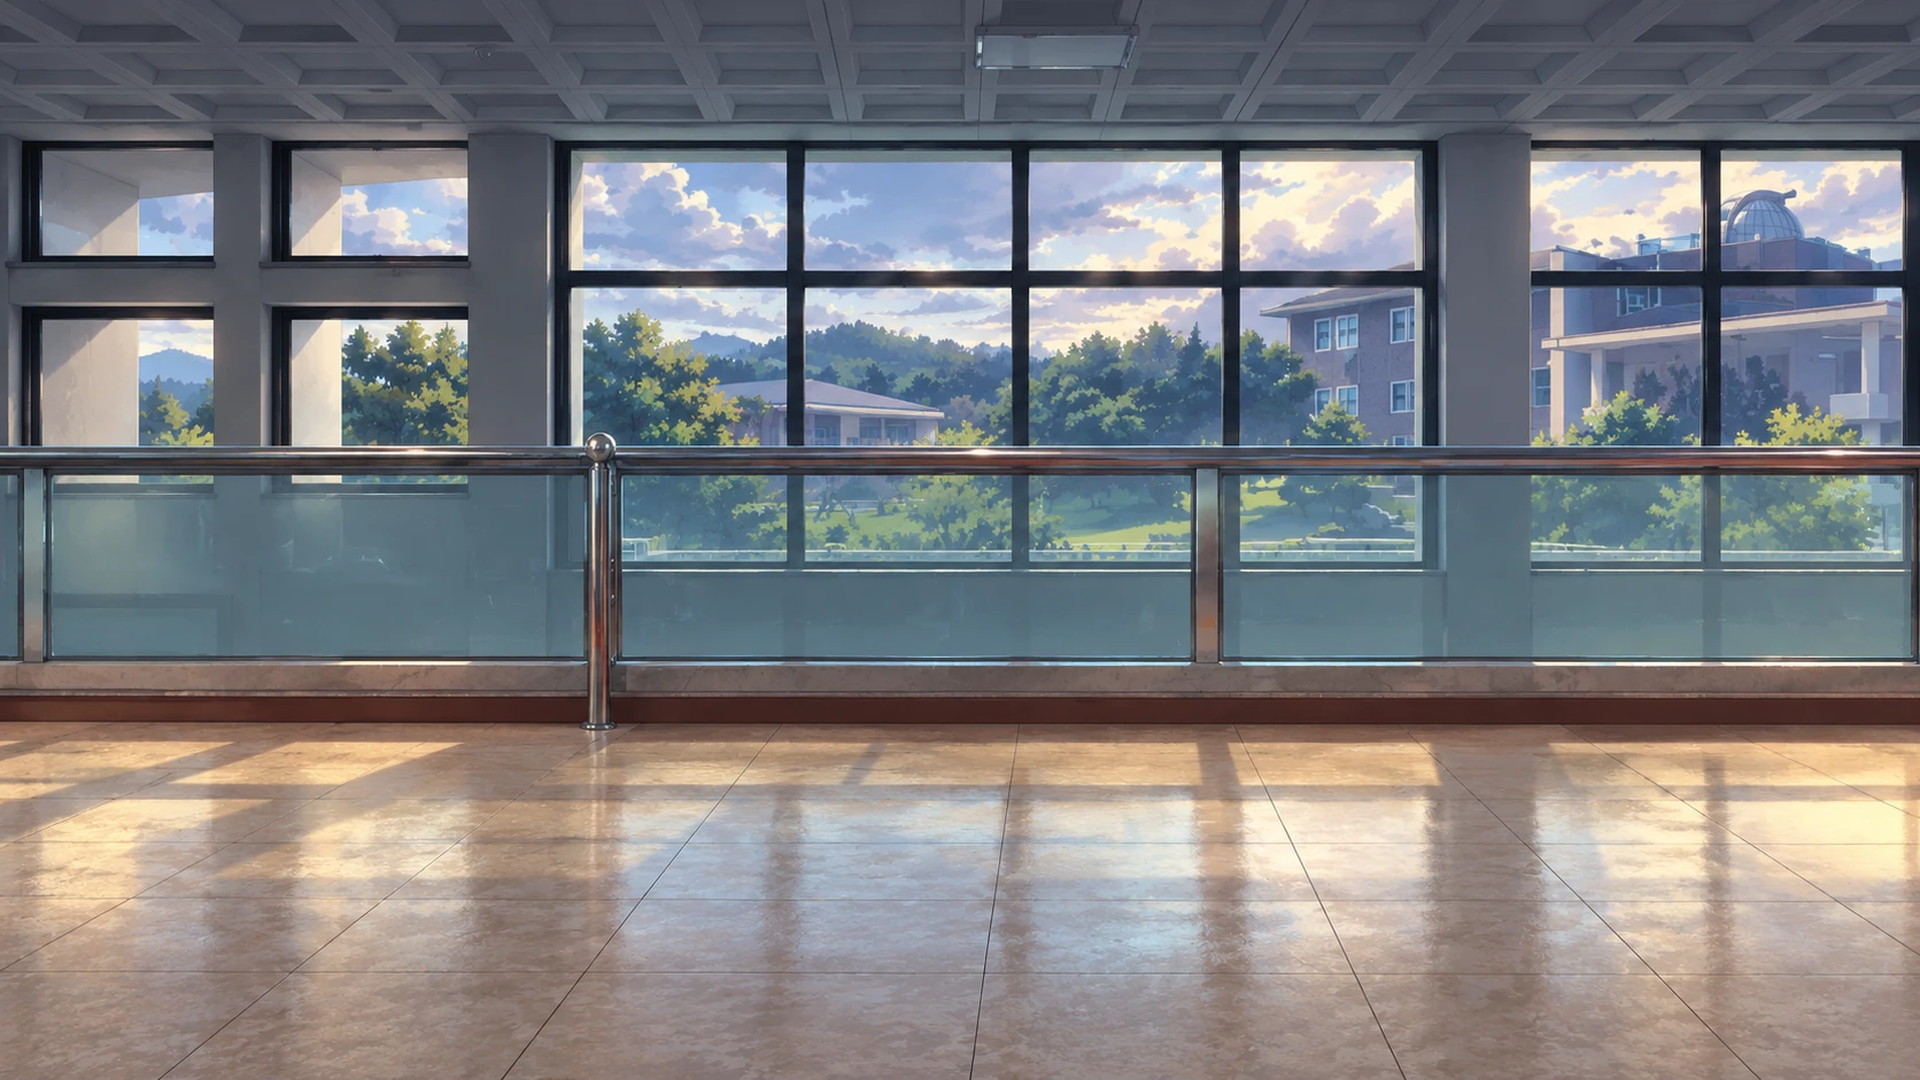
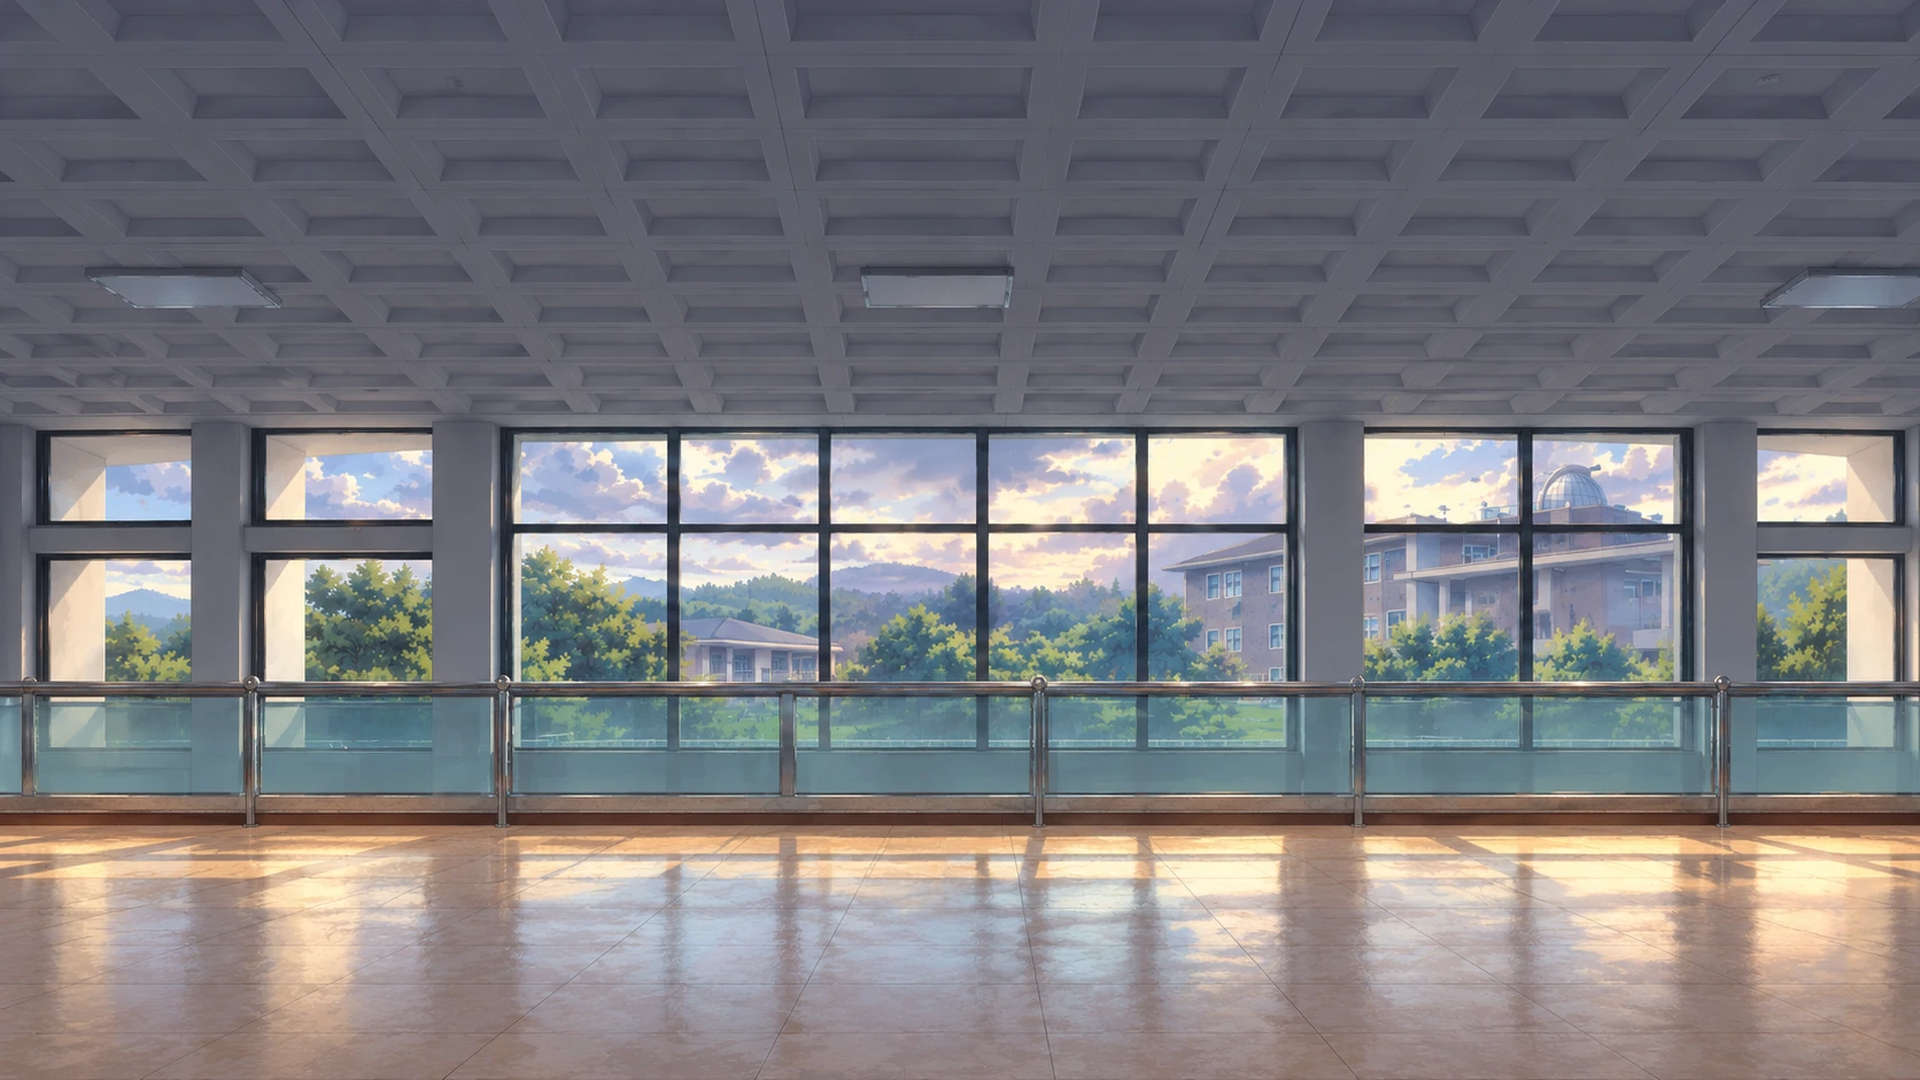
로비·복도·벚나무 길 배경 넓게 다시 뽑은 그림, 바닥 누르기 끔
Claude-Session: https://claude.ai/code/session_01DkxNRghxDBAgHYk82cYTSd

diff --git a/tools/make_prompts.py b/tools/make_prompts.py
@@ -416,7 +416,7 @@ for f, ko, desc in EFFECTS:
 out += ['## 5. 스테이지 배경 (학교 사진 첨부, 16:9 가로)', '',
         '> 사진을 첨부해서 한 장씩. 바닥(캐릭터가 서는 곳)이 그림 아래쪽 약 85% 높이에 오게. 받은 그림은 `assets/stages/<id>.png`', '']
 # 다시 뽑을 배경: 문·나무·난간이 캐릭터에 비해 너무 크게 나온 것 (지금 그림을 첨부해서 카메라만 뒤로)
-STAGE_REDO = ['cherry_road', 'lobby', 'hallway']
+STAGE_REDO = []  # 다 뽑음 (cherry_road, lobby, hallway 넓게)
 WIDE = ("IMPORTANT SCALE: the camera is pulled far back, so everything looks SMALL and far away: "
         "a door or a person-height object is only about one quarter of the image height, trees and windows are small, "
         "and much more of the place is visible on the left and right. "

diff --git a/docs/PROMPTS.md b/docs/PROMPTS.md
@@ -1257,29 +1257,14 @@ Redraw the attached photo as a 2D anime fighting game stage background: the fron
 Redraw the attached photo as a 2D anime fighting game stage background: the outdoor school basketball court in front of the pink and beige three-story school buildings, pine trees on the right, big white clouds in a blue sky. Keep the same place, layout and buildings as the photo. Wide 16:9 landscape, 1920x1080. Straight-on side view at standing eye level, like a Guilty Gear / Street Fighter stage: a flat open floor runs across the whole bottom of the image, and the line where the characters stand is at about 85% of the image height, with nothing blocking the floor in the middle. No people, no characters, no text or letters except where described above, no UI. Painterly anime background art, cel-shaded with clean outlines, slightly muted colors and soft depth so fighters in front stand out, dramatic lighting, a little darker and calmer than the characters.
 ```
 
-🔁 **복도 다시 뽑기** (지금 `stages/hallway.png` 그림 첨부) → `stages/hallway`
-```
-Redraw the attached background as a wider, more zoomed-out version of the same place: the second-floor school hallway with a glass and steel railing in front of a wall of big black-framed windows looking out on the campus buildings and green hills. Same art style, colors and lighting as the attached image. IMPORTANT SCALE: the camera is pulled far back, so everything looks SMALL and far away: a door or a person-height object is only about one quarter of the image height, trees and windows are small, and much more of the place is visible on the left and right. The floor is only a NARROW strip: the line where the wall (or the road side) meets the floor is at about 78% of the image height. Wide 16:9 landscape, 1920x1080, straight-on side view at standing eye level like a Guilty Gear / Street Fighter stage. No people, no characters, no text or letters, no UI.
-```
-
 ✅ **복도** (2층 난간 창문 사진 (369)) → `stages/hallway`
 ```
 Redraw the attached photo as a 2D anime fighting game stage background: the second-floor school hallway with a glass and steel railing in front of a wall of big black-framed windows looking out on the campus buildings and green hills. Keep the same place, layout and buildings as the photo. Wide 16:9 landscape, 1920x1080. Straight-on side view at standing eye level, like a Guilty Gear / Street Fighter stage: a flat open floor runs across the whole bottom of the image, and the line where the characters stand is at about 85% of the image height, with nothing blocking the floor in the middle. No people, no characters, no text or letters except where described above, no UI. Painterly anime background art, cel-shaded with clean outlines, slightly muted colors and soft depth so fighters in front stand out, dramatic lighting, a little darker and calmer than the characters.
 ```
 
-🔁 **벚나무 길 다시 뽑기** (지금 `stages/cherry_road.png` 그림 첨부) → `stages/cherry_road`
-```
-Redraw the attached background as a wider, more zoomed-out version of the same place: the long campus road lined with cherry trees and round trimmed bushes, the pink school building on the left, autumn leaves, cloudy sky. Same art style, colors and lighting as the attached image. IMPORTANT SCALE: the camera is pulled far back, so everything looks SMALL and far away: a door or a person-height object is only about one quarter of the image height, trees and windows are small, and much more of the place is visible on the left and right. The floor is only a NARROW strip: the line where the wall (or the road side) meets the floor is at about 78% of the image height. Wide 16:9 landscape, 1920x1080, straight-on side view at standing eye level like a Guilty Gear / Street Fighter stage. No people, no characters, no text or letters, no UI.
-```
-
 ✅ **벚나무 길** (벚나무 길 사진 (371)) → `stages/cherry_road`
 ```
 Redraw the attached photo as a 2D anime fighting game stage background: the long campus road lined with cherry trees and round trimmed bushes, the pink school building on the left, autumn leaves, cloudy sky. Keep the same place, layout and buildings as the photo. Wide 16:9 landscape, 1920x1080. Straight-on side view at standing eye level, like a Guilty Gear / Street Fighter stage: a flat open floor runs across the whole bottom of the image, and the line where the characters stand is at about 85% of the image height, with nothing blocking the floor in the middle. No people, no characters, no text or letters except where described above, no UI. Painterly anime background art, cel-shaded with clean outlines, slightly muted colors and soft depth so fighters in front stand out, dramatic lighting, a little darker and calmer than the characters.
-```
-
-🔁 **중앙 로비 다시 뽑기** (지금 `stages/lobby.png` 그림 첨부) → `stages/lobby`
-```
-Redraw the attached background as a wider, more zoomed-out version of the same place: the school lobby with a teal rubber floor, a big black TV and two windows on the white wall, two small potted plants, framed calligraphy above. Same art style, colors and lighting as the attached image. IMPORTANT SCALE: the camera is pulled far back, so everything looks SMALL and far away: a door or a person-height object is only about one quarter of the image height, trees and windows are small, and much more of the place is visible on the left and right. The floor is only a NARROW strip: the line where the wall (or the road side) meets the floor is at about 78% of the image height. Wide 16:9 landscape, 1920x1080, straight-on side view at standing eye level like a Guilty Gear / Street Fighter stage. No people, no characters, no text or letters, no UI.
 ```
 
 ✅ **중앙 로비** (로비 사진 (370)) → `stages/lobby`
